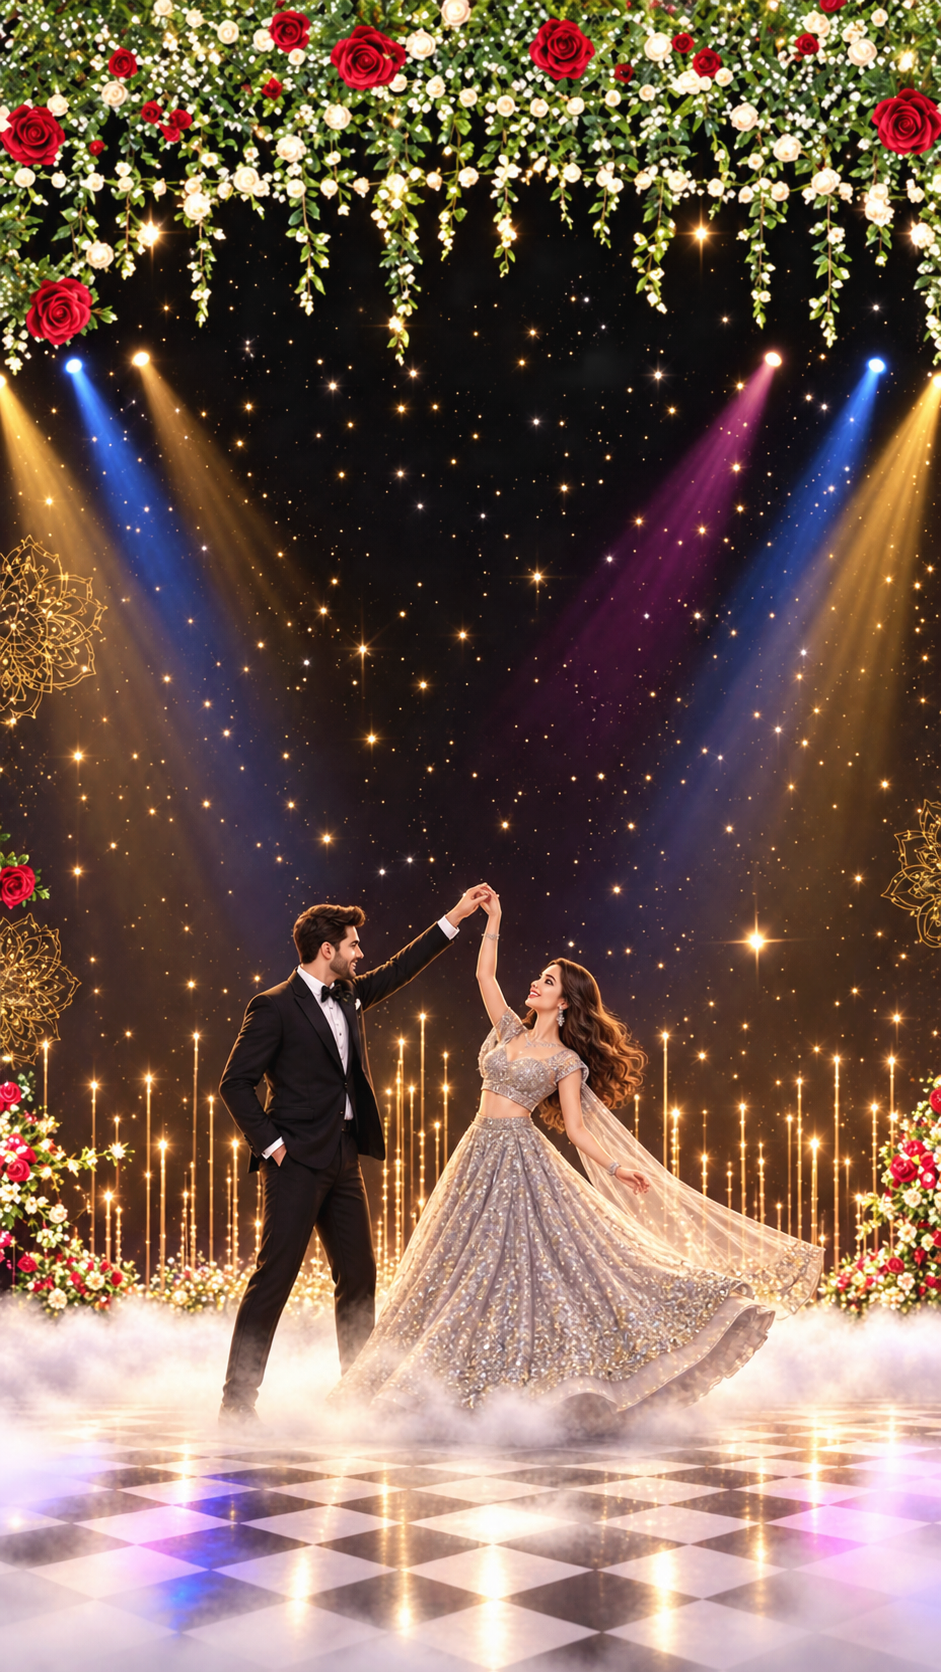
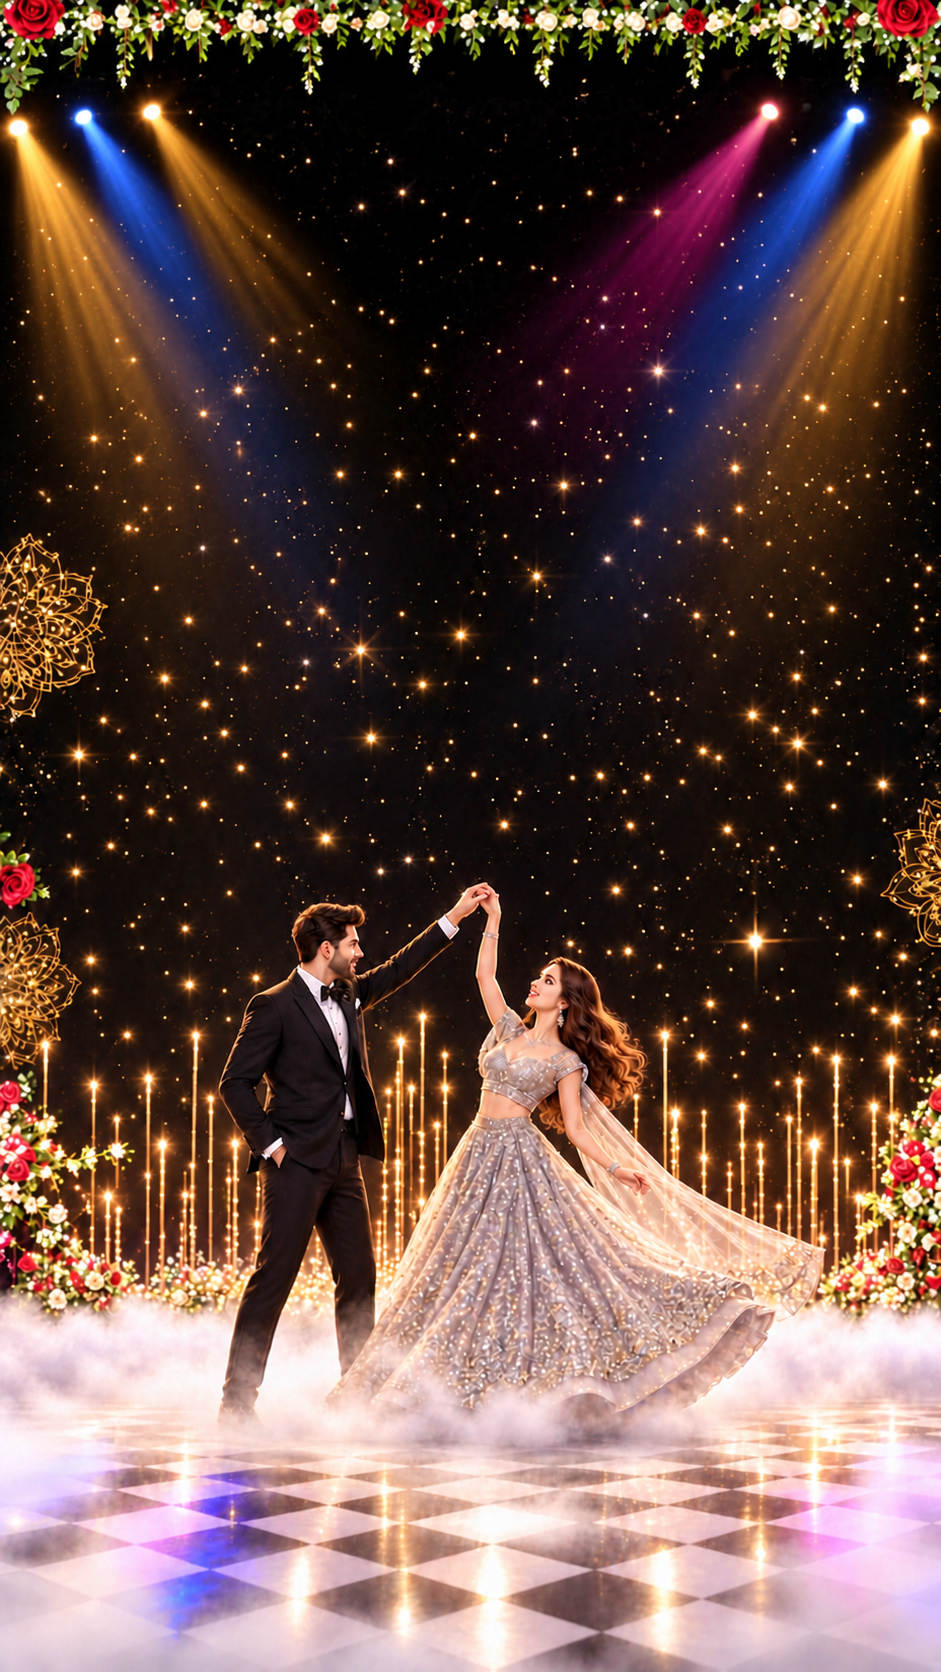
Changes

diff --git a/styles.css b/styles.css
@@ -141,7 +141,7 @@ body.sangeet-active:after{background:radial-gradient(ellipse at center,transpare
 
 .baraat-copy h1.script{font-size:clamp(38px,7.5vw,62px)!important;line-height:1.05;margin:0 0 10px;color:#6b2a13!important;transform:none!important}
 
-.baraat-copy .tiny{position:relative;z-index:5;color:#482012;background:#fff3d9c2;border:0;border-radius:10px;padding:8px 12px;font-size:clamp(12px,2.5vw,16px);font-weight:700;line-height:1.3;text-shadow:none;box-shadow:0 2px 10px #3a190f26}
+.baraat-copy .tiny{position:relative;z-index:5;color:#482012;background:#fff3d9c2;border:0;border-radius:10px;padding:8px 12px;font-size:clamp(15px,3.1vw,20px);font-weight:700;line-height:1.3;text-shadow:none;box-shadow:0 2px 10px #3a190f26}
 
 /* Match the Baarat scene's font families across event and credit scenes */
 #s5-chaak .chaak-copy h2,#s6 .sangeet-copy h2,#s9 .ghudchadi-details h2,#s11 .panigrahan-copy h2{font-family:'Great Vibes',cursive!important}
@@ -222,3 +222,88 @@ body.sangeet-active:after{background:radial-gradient(ellipse at center,transpare
 }
 
 #s4 .content>.eyebrow{color:#59351c!important;font-weight:700!important}
+
+/* s6 Lagan Sagai & Sangeet schedule, styled to match the supplied invitation */
+#s6 .sangeet-copy{top:3.5%;left:6%;right:6%;padding:0;background:transparent;border:0;backdrop-filter:none;text-align:center;text-shadow:0 2px 10px #000b}
+#s6 .sangeet-copy .eyebrow{font:700 clamp(14px,3.4vw,24px)/1.2 Arial,sans-serif;letter-spacing:.23em;text-transform:uppercase;color:#fff0c3;margin:0 0 12px}
+#s6 .sangeet-copy h2{font:400 clamp(55px,11.5vw,95px)/.83 'Great Vibes',cursive;color:#fff3d5;margin:0 auto 17px;text-shadow:0 3px 4px #0009;}
+#s6 .sangeet-info-panel{width:100%;margin:0 auto;padding:clamp(16px,3vh,30px) clamp(14px,4vw,38px) clamp(18px,3.3vh,32px);border:1px solid #fff8;border-radius:clamp(22px,4vw,42px);background:#fff3e2d9;box-shadow:0 4px 24px #0005;color:#35110d;text-shadow:none;backdrop-filter:blur(2px)}
+#s6 .sangeet-info-panel h3{font:700 clamp(25px,5.6vw,44px)/1.08 'Cormorant Garamond',serif;color:#35110d;margin:0 0 10px}
+#s6 .sangeet-time-pill{position:relative;width:min(78%,550px);margin:0 auto;padding:5px 12px 7px;border:2px solid #e3ad3f;border-radius:999px;background:#4a0711;box-shadow:inset 0 0 0 2px #77221b,0 1px 3px #35110d55;color:#fff1d0;font:700 clamp(21px,4.8vw,38px)/1.12 'Cormorant Garamond',serif;white-space:nowrap}
+#s6 .sangeet-divider{display:flex;align-items:center;gap:10px;margin:10px 0 9px;color:#a87318;font:700 clamp(32px,6vw,48px)/.8 'Cormorant Garamond',serif}
+#s6 .sangeet-divider:before,#s6 .sangeet-divider:after{content:"";height:2px;flex:1;background:linear-gradient(90deg,transparent,#a87318 18%,#e4c477 50%,#a87318 82%,transparent)}
+#s6 .sangeet-divider span{display:block;transform:rotate(90deg)}
+#s6 .sangeet-info-panel h3:nth-of-type(2){margin-bottom:10px}
+#s6 .sangeet-venue{display:flex;align-items:flex-start;justify-content:center;gap:12px;margin:clamp(12px,2.5vh,23px) auto 0;padding-top:clamp(10px,2vh,18px);border-top:1px solid #bd9859;color:#35110d;text-align:left}
+#s6 .sangeet-pin{flex:0 0 auto;color:#87510c;font-size:clamp(21px,4.3vw,34px);line-height:1}
+#s6 .sangeet-venue p{margin:0;font:700 clamp(19px,4.2vw,32px)/1.2 'Cormorant Garamond',serif}
+@media(max-width:600px){#s6 .sangeet-copy{top:3%;left:4%;right:4%}#s6 .sangeet-copy .eyebrow{letter-spacing:.17em;margin-bottom:9px}#s6 .sangeet-copy h2{font-size:clamp(49px,13vw,72px);margin-bottom:12px}#s6 .sangeet-info-panel{padding:14px 10px 16px;border-radius:24px}#s6 .sangeet-info-panel h3{font-size:clamp(22px,6vw,31px);margin-bottom:8px}#s6 .sangeet-time-pill{width:82%;font-size:clamp(17px,4.5vw,24px);padding:5px 7px 6px}#s6 .sangeet-divider{margin:8px 0 7px}#s6 .sangeet-venue{gap:8px;margin-top:12px;padding-top:10px}#s6 .sangeet-venue p{font-size:clamp(17px,4.3vw,23px)}}
+
+/* Keep the s6 event copy compact on the narrow portrait canvas. */
+#s6 .sangeet-copy .eyebrow{font-size:clamp(10px,2.3vw,16px);letter-spacing:.19em;margin-bottom:7px}
+#s6 .sangeet-copy h2{font-size:clamp(42px,8.7vw,70px);line-height:.88;margin-bottom:10px}
+#s6 .sangeet-info-panel{padding:clamp(10px,1.8vh,17px) clamp(10px,2vw,20px) clamp(12px,2vh,19px)}
+#s6 .sangeet-info-panel h3{font-size:clamp(19px,4.2vw,31px);margin-bottom:6px}
+#s6 .sangeet-time-pill{width:min(94%,500px);font-size:clamp(16px,3.6vw,27px);padding:4px 8px 5px}
+#s6 .sangeet-divider{font-size:clamp(25px,4.6vw,36px);margin:6px 0 5px}
+#s6 .sangeet-venue{margin-top:9px;padding-top:8px;gap:8px}
+#s6 .sangeet-pin{font-size:clamp(15px,3vw,23px)}
+#s6 .sangeet-venue p{font-size:clamp(15px,3.1vw,23px);line-height:1.12}
+@media(max-width:600px){#s6 .sangeet-copy{top:2.5%;left:5%;right:5%}#s6 .sangeet-copy .eyebrow{font-size:clamp(9px,2.5vw,13px);letter-spacing:.14em;margin-bottom:6px}#s6 .sangeet-copy h2{font-size:clamp(40px,10vw,56px);line-height:.86;margin-bottom:8px}#s6 .sangeet-info-panel{padding:10px 8px 12px;border-radius:22px}#s6 .sangeet-info-panel h3{font-size:clamp(18px,4.8vw,24px);margin-bottom:6px}#s6 .sangeet-time-pill{width:100%;font-size:clamp(14px,3.65vw,19px);padding:4px 4px 5px;letter-spacing:-.02em}#s6 .sangeet-divider{margin:5px 0 4px;font-size:25px}#s6 .sangeet-venue{gap:7px;margin-top:8px;padding-top:7px}#s6 .sangeet-pin{font-size:16px}#s6 .sangeet-venue p{font-size:clamp(14px,3.7vw,18px);line-height:1.1}}
+
+/* Reference-style gold scroll ornaments around each burgundy time capsule. */
+#s6 .sangeet-time-pill{position:relative;width:min(75%,430px);overflow:visible}
+#s6 .sangeet-time-pill:before,#s6 .sangeet-time-pill:after{position:absolute;top:50%;transform:translateY(-52%);color:#b27a16;font:700 clamp(19px,4vw,29px)/1 'Cormorant Garamond',serif;text-shadow:0 1px #ffe4a0;pointer-events:none}
+#s6 .sangeet-time-pill:before{content:"❧";right:calc(100% + 5px)}
+#s6 .sangeet-time-pill:after{content:"❧";left:calc(100% + 5px);transform:translateY(-52%) scaleX(-1)}
+#s6 .sangeet-pin{width:clamp(16px,2.5vw,24px);height:auto;fill:#87510c;stroke:#603804;stroke-width:1.2;overflow:visible}
+#s6 .sangeet-pin circle{fill:#fff0d0;stroke:none}
+
+/* Use the supplied gold label and divider artwork as a shared sprite. */
+#s6 .sangeet-time-pill{display:grid;place-items:center;width:100%;min-height:clamp(52px,10vw,74px);box-sizing:border-box;padding:7px clamp(28px,7vw,58px);border:0;border-radius:0;background-color:transparent;background-image:url("assets/Burgundy and Gold Flourish Banners.png");background-repeat:no-repeat;background-position:center top;background-size:100% auto;box-shadow:none;color:#fff1d4}
+#s6 .sangeet-time-pill:before,#s6 .sangeet-time-pill:after{content:none}
+#s6 .sangeet-divider{width:100%;height:clamp(32px,6vw,52px);margin:10px 0;border:0;background-color:transparent;background-image:url("assets/Burgundy and Gold Flourish Banners.png");background-repeat:no-repeat;background-position:center 70%;background-size:100% auto;}
+#s6 .sangeet-divider span{display:none}
+@media(max-width:600px){#s6 .sangeet-time-pill{width:84%}#s6 .sangeet-time-pill:before,#s6 .sangeet-time-pill:after{font-size:19px}#s6 .sangeet-time-pill:before{right:calc(100% + 2px)}#s6 .sangeet-time-pill:after{left:calc(100% + 2px)}}
+
+/* Sangeet invitation layout */
+#s6 .sangeet-canvas{position:relative;width:min(100vw,75svh);height:auto;aspect-ratio:3/4;overflow:hidden;background:#080b12}
+#s6 .sangeet-art{position:absolute;inset:0;width:100%;height:100%;object-fit:cover;object-position:center}
+#s6 .sangeet-copy{position:absolute;inset:0;display:flex;flex-direction:column;align-items:center;padding:4% 6%;text-align:center;z-index:3;background:transparent;border:0;backdrop-filter:none;text-shadow:0 2px 10px #0008}
+#s6 .sangeet-copy .eyebrow{margin:1% 0 0;font:600 clamp(10px,2.5vw,17px)/1.2 Arial,sans-serif;letter-spacing:.25em;text-transform:uppercase;color:#fff0c3}
+#s6 .sangeet-copy .script{font:400 clamp(44px,11vw,86px)/.85 'Great Vibes',cursive;margin:12px 0 20px;color:#fff0d0}
+#s6 .sangeet-info-panel{width:94%;box-sizing:border-box;margin:0 auto;padding:20px 16px;border:0;border-radius:28px;background:rgba(255,244,225,.84);box-shadow:0 4px 24px #0004;color:#38170f;text-align:center;text-shadow:none;backdrop-filter:blur(2px)}
+#s6 .sangeet-info-panel h3{font:700 clamp(19px,4.2vw,30px)/1.08 'Cormorant Garamond',serif;color:#38170f;margin:4px 0 12px}
+#s6 .sangeet-time-pill{display:inline-block;position:relative;width:auto;max-width:100%;overflow:visible;background:#510b19;color:#fff1d4;border:2px solid #d99b31;border-radius:40px;padding:7px 20px;font:700 clamp(15px,3.8vw,25px)/1.1 'Cormorant Garamond',serif;white-space:nowrap;box-shadow:none}
+#s6 .sangeet-time-pill:before,#s6 .sangeet-time-pill:after{position:absolute;top:50%;transform:translateY(-52%);color:#a97819;font:700 clamp(19px,4vw,29px)/1 'Cormorant Garamond',serif;text-shadow:none;pointer-events:none}
+#s6 .sangeet-time-pill:before{content:"❧";right:calc(100% + 5px)}
+#s6 .sangeet-time-pill:after{content:"❧";left:calc(100% + 5px);transform:translateY(-52%) scaleX(-1)}
+#s6 .sangeet-divider{display:block;position:relative;width:100%;height:1px;margin:18px 0;border:0;background:#b68a38;color:#a97819;font-size:30px;line-height:1}
+#s6 .sangeet-divider:before,#s6 .sangeet-divider:after{display:none}
+#s6 .sangeet-divider span{position:relative;top:-17px;display:inline-block;background:transparent;color:#a97819;font-size:30px;transform:none}
+#s6 .sangeet-venue{display:flex;align-items:center;justify-content:center;gap:10px;margin-top:15px;padding-top:0;border:0;color:#38170f;text-align:left}
+#s6 .sangeet-venue p{font:700 clamp(13px,3.2vw,22px)/1.45 'Cormorant Garamond',serif;margin:0;color:#38170f}
+#s6 .sangeet-pin{width:22px;min-width:22px;height:auto;fill:#946019;stroke:#603804;stroke-width:1.2;overflow:visible}
+#s6 .sangeet-pin circle{fill:#fff0d0;stroke:none}
+
+/* Final sprite overrides: the supplied PNG has a white matte, so multiply
+   it against the ivory panel to blend that matte into the panel. */
+#s6 .sangeet-time-pill{display:grid;place-items:center;position:relative;width:100%;min-height:clamp(48px,8vw,66px);box-sizing:border-box;padding:7px clamp(30px,7vw,58px);border:0;border-radius:0;background-color:transparent;background-image:url("assets/Ornate Gold Banner and Divider.png");background-repeat:no-repeat;background-position:center 30%;background-size:100% auto;box-shadow:none;color:#fff1d4;overflow:visible}
+#s6 .sangeet-time-pill:before,#s6 .sangeet-time-pill:after{content:none}
+#s6 .sangeet-divider{display:block;width:100%;height:clamp(32px,6vw,48px);margin:9px 0;border:0;background-color:transparent;background-image:url("assets/Ornate Gold Banner and Divider.png");background-repeat:no-repeat;background-position:center 87%;background-size:100% auto;color:transparent}
+#s6 .sangeet-divider span{display:none}
+@media(max-width:600px){#s6 .sangeet-time-pill{width:100%;min-height:52px;padding:6px 30px}#s6 .sangeet-divider{height:34px;margin:7px 0}}
+#s6 .sangeet-info-panel{background:rgba(255,244,225,.68)}
+#s6 .sangeet-time-pill{display:grid;place-items:center;position:relative;width:100%;min-height:clamp(40px,9vw,52px);height:clamp(40px,9vw,52px);box-sizing:border-box;padding:0 12%;border:0;border-radius:0;background-color:transparent;background-image:url("assets/ornate_gold_text_box.png");background-repeat:no-repeat;background-position:center;background-size:100% 100%;box-shadow:none;color:#fff1d4;overflow:visible;text-align:center;font-size:clamp(14px,3.5vw,18px);line-height:1.05;transform:none}
+#s6 .sangeet-divider{display:block;width:100%;height:clamp(24px,6vw,36px);margin:9px 0;border:0;background-color:transparent;background-image:url("assets/ornate_gold_divider_line.png");background-repeat:no-repeat;background-position:center;background-size:100% 100%;color:transparent}
+#s6 .sangeet-divider span{display:none}
+#s6 .sangeet-info-panel{padding:10px 12px 8px}
+#s6 .sangeet-info-panel h3{margin:2px 0 4px}
+#s6 .sangeet-divider{height:clamp(21px,5vw,28px);margin:3px 0}
+#s6 .sangeet-time-pill{min-height:36px;height:36px}
+#s6 .sangeet-venue{margin-top:5px;gap:8px}
+#s6 .sangeet-venue p{line-height:1.25}
+#s6 .sangeet-copy .script{line-height:1.04}
+#s6 .sangeet-time-pill{font-family:Arial,Helvetica,sans-serif;font-style:normal;font-weight:400}
+#s6 .sangeet-time-pill{display:flex;justify-content:center;align-items:center;text-align:center;padding:0}
+#s6 .sangeet-time-pill span{display:block;margin:0;line-height:1.05;text-align:center}

diff --git a/scenes/s6.html b/scenes/s6.html
@@ -1,4 +1,57 @@
-<section class="scene sangeet-scene" data-duration="3000" id="s6"><div class="sangeet-canvas"><img class="sangeet-art" src="assets/sangeet-ballroom.png" alt="Illustrated ballroom with a dancing couple, chandeliers, and floral decorations"><div class="sangeet-lights" aria-hidden="true"><i class="sangeet-beam one"></i><i class="sangeet-beam two"></i><i class="sangeet-beam three"></i><canvas class="sangeet-stars"></canvas></div><div class="sangeet-shade"></div><div class="sangeet-copy"><div class="eyebrow">An evening of music & joy</div><br><h2 class="script">Sagai and<br>Sangeet</h2><div class="sangeet-info-panel"><p class="sangeet-followup">Dinner &amp; Celebrations</p><div class="date">Tuesday, 24 Nov 2026<br>5:30 <span class="sangeet-meridiem">PM</span> <span class="sangeet-onwards">onwards</span><p class="venue">Princess Garden, Majestic Resort<br>Kesar Chauraha, Mansarovar, Jaipur</p></div></div></div></div></section>
+<section class="scene sangeet-scene" data-duration="5000" id="s6">
+    <div class="sangeet-canvas">
 
+        <img class="sangeet-art"
+             src="assets/sangeet-ballroom.png"
+             alt="Illuminated ballroom with a dancing couple and floral decorations">
 
+        <div class="sangeet-lights" aria-hidden="true">
+            <i class="sangeet-beam one"></i>
+            <i class="sangeet-beam two"></i>
+            <i class="sangeet-beam three"></i>
+            <canvas class="sangeet-stars"></canvas>
+        </div>
 
+        <div class="sangeet-shade"></div>
+
+        <div class="sangeet-copy">
+
+            <div class="eyebrow">AN EVENING OF MUSIC &amp; JOY</div>
+
+            <h2 class="script">
+                Lagan Sagai &amp;<br>
+                Sangeet
+            </h2>
+
+            <div class="sangeet-info-panel">
+
+                <h3>Lagan Sagai &amp; Sangeet</h3>
+
+                <div class="sangeet-time-pill"><span>from 5:15 PM onwards</span></div>
+
+                <div class="sangeet-divider" aria-hidden="true">
+                    <span>❧</span>
+                </div>
+
+                <h3>Dinner</h3>
+
+                <div class="sangeet-time-pill"><span>from 7:00 PM onwards</span></div>
+
+                <div class="sangeet-venue">
+                    <svg class="sangeet-pin"
+                         viewBox="0 0 24 32"
+                         aria-hidden="true">
+                        <path d="M12 1.5C6.2 1.5 1.5 6.2 1.5 12c0 7.1 10.5 18.5 10.5 18.5S22.5 19.1 22.5 12C22.5 6.2 17.8 1.5 12 1.5Z"/>
+                        <circle cx="12" cy="12" r="3.5"/>
+                    </svg>
+
+                    <p>
+                        Princess Garden, Majestic Resort<br>
+                        Kesar Chauraha, Mansarovar, Jaipur
+                    </p>
+                </div>
+
+            </div>
+        </div>
+    </div>
+</section>

diff --git a/scenes/s10.html b/scenes/s10.html
@@ -1,1 +1,1 @@
-<section class="scene baraat-scene" data-duration="4000" id="s10"><div class="baraat-canvas"><img class="baraat-art" src="assets/joyful-indian-wedding-procession.png" alt="Baarat procession invitation artwork with a floral arch and wedding party in a decorated car"><div class="baraat-effects baraat-lights" aria-hidden="true"></div><div class="baraat-effects baraat-petals" aria-hidden="true"></div><div class="baraat-effects baraat-sparks" aria-hidden="true"></div><div class="baraat-copy"><div class="eyebrow"></div><div class="ornament"></div><br><h1 class="script">Baarat Prasthan</h1><p class="baraat-followup">Followed by Reception</p><div class="date">Wednesday · 25 Nov 2026</div><div class="time">5:30 <span class="time-meridiem">PM</span></div><p class="tiny">Baarat departs from near Gram Coffee Roasters; Wedding Venue: Shri Pratap Marriage Garden, Gandhi Path, Vaishali Nagar, Jaipur.</p><div class="ornament">✦</div></div></div></section>
+<section class="scene baraat-scene" data-duration="7000" id="s10"><div class="baraat-canvas"><img class="baraat-art" src="assets/joyful-indian-wedding-procession.png" alt="Baarat procession invitation artwork with a floral arch and wedding party in a decorated car"><div class="baraat-effects baraat-lights" aria-hidden="true"></div><div class="baraat-effects baraat-petals" aria-hidden="true"></div><div class="baraat-effects baraat-sparks" aria-hidden="true"></div><div class="baraat-copy"><div class="eyebrow"></div><div class="ornament"></div><br><h1 class="script">Baarat Prasthan</h1><p class="baraat-followup">Followed by Reception</p><div class="date">Wednesday · 25 Nov 2026</div><div class="time">5:30 <span class="time-meridiem">PM</span></div><p class="tiny">Baarat departs from near Gram Coffee Roasters; Wedding Venue: Shri Pratap Marriage Garden, Gandhi Path, Vaishali Nagar, Jaipur.</p><div class="ornament">✦</div></div></div></section>

diff --git a/scenes/s4.html b/scenes/s4.html
@@ -1,1 +1,1 @@
-<section class="scene invite" data-duration="4000" id="s4"><div class="scene-backdrop"><img src="assets/jaipur-block-prints.jpg" alt="Carved wooden textile-printing blocks from Jaipur"></div><div class="content"><div class="eyebrow" style="color:#9d7136">Wedding Invitation</div><p class="tiny">You are cordially invited to grace the auspicious occasion of the marriage ceremony of</p><div class="names script"><span class="initial-cap">A</span>nish</div><p class="parents">GS/O Late Shri Sita Ram Gupta and Late Smt Krishna Gupta</p><p class="parents">S/O Shri Sanjeev Kumar Gupta and Smt Sita Gupta</p><div class="invite-weds"><span class="invite-weds-ornament">&#10086;</span> WEDS <span class="invite-weds-ornament">&#10086;</span></div><div class="names script">Khushi</div><p class="parents">GD/O Shri Ghanshyam Khandelwal and Smt Beena Khandelwal<br>D/O Shri Sanjay Khandelwal and Smt Suman Khandelwal</p><div class="rule"></div></div></section>
+<section class="scene invite" data-duration="5000" id="s4"><div class="scene-backdrop"><img src="assets/jaipur-block-prints.jpg" alt="Carved wooden textile-printing blocks from Jaipur"></div><div class="content"><div class="eyebrow" style="color:#9d7136">Wedding Invitation</div><p class="tiny">You are cordially invited to grace the auspicious occasion of the marriage ceremony of</p><div class="names script"><span class="initial-cap">A</span>nish</div><p class="parents">GS/O Late Shri Sita Ram Gupta and Late Smt Krishna Gupta</p><p class="parents">S/O Shri Sanjeev Kumar Gupta and Smt Sita Gupta</p><div class="invite-weds"><span class="invite-weds-ornament">&#10086;</span> WEDS <span class="invite-weds-ornament">&#10086;</span></div><div class="names script">Khushi</div><p class="parents">GD/O Shri Ghanshyam Khandelwal and Smt Beena Khandelwal<br>D/O Shri Sanjay Khandelwal and Smt Suman Khandelwal</p><div class="rule"></div></div></section>
